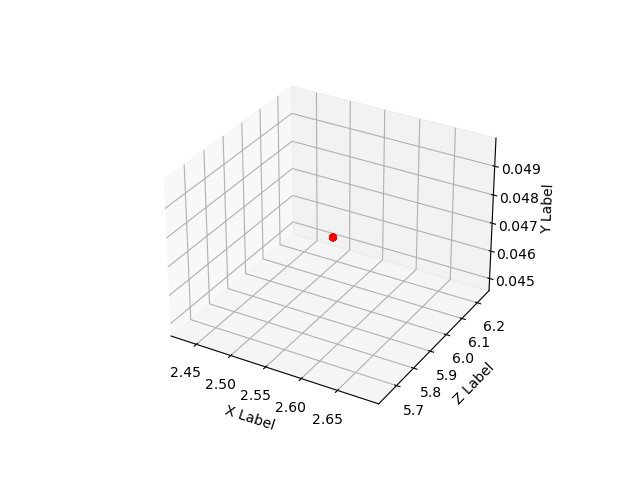
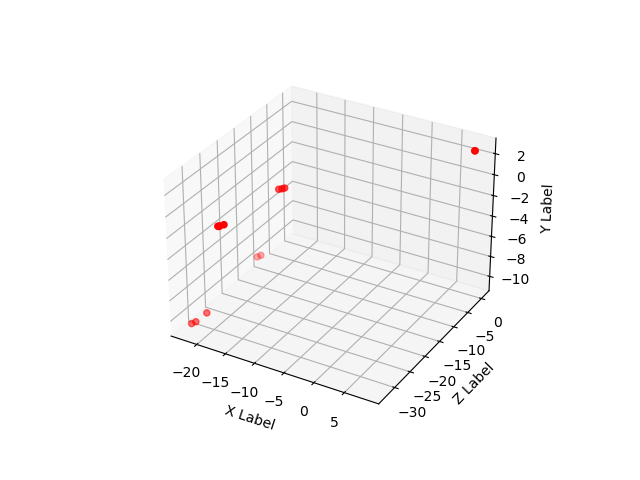
Fixed a minor error, but that didn't make things much better.
Screw it, nothing more we can do for this shit. Let's just admit we
screwed up and explain what we did.

diff --git a/project.py b/project.py
@@ -60,11 +60,11 @@ cameraMatrix = np.asarray([[1022.5,0,273.648],[0,1004.33,618.487],[0,0,1]])
 X = []
 Y = []
 Z = []
-interval = 1
+interval = 2
 M_l = np.hstack((np.eye(3, 3), np.zeros((3, 1))))
 M_r = np.empty((3,4))
 fundamentalMat = []
-fundamentalMat2 = []
+fundamentalMatrices = []
 essentialMat = []
 for i in range(0, numImages-interval, interval):
     initial1 = cv2.imread("outputImages/" + str(i) + ".png",0)
@@ -79,28 +79,22 @@ for i in range(0, numImages-interval, interval):
     if i == 0:
         fundamentalMat, mask = cv2.findFundamentalMat(initialPoints1,initialPoints2,cv2.FM_RANSAC)
         fundamentalMat = fundamentalMat[:3,:3]  # Take only the first solution.
-    else:
-        fundamentalMat2, mask = cv2.findFundamentalMat(initialPoints1,initialPoints2,cv2.FM_RANSAC)
-        fundamentalMat2 = fundamentalMat2[:3,:3]  # Take only the first solution.
-        fundamentalMat = np.matmul(fundamentalMat, fundamentalMat2)
 
     initialPoints1 = initialPoints1[mask.ravel() == 1]
     initialPoints2 = initialPoints2[mask.ravel() == 1]
-    if i == 0:
-        essentialMat = np.linalg.multi_dot([np.transpose(cameraMatrix),fundamentalMat,cameraMatrix])
+    essentialMat = np.linalg.multi_dot([np.transpose(cameraMatrix),fundamentalMat,cameraMatrix])
     print("Fundamental and essential matrices:")
     print(fundamentalMat)
     print(essentialMat)
     print("")
 
-    # FIXME: The projections are the same! What the hell?
     points, R, t, mask = cv2.recoverPose(essentialMat,initialPoints1,initialPoints2)
     #M_r = np.hstack((R, t))
     M_r[:3,:3] = np.matmul(R, M_l[:3,:3])
     M_r[:3,3] = M_l[:3,3] + np.matmul(M_l[:3,:3], t.ravel())
     P_l = np.matmul(cameraMatrix,  M_l)
     P_r = np.matmul(cameraMatrix,  M_r)
-    M_l = M_r
+    M_l = np.copy(M_r)
     print("Previous and current projections:")
     print(P_l)
     print(P_r)
